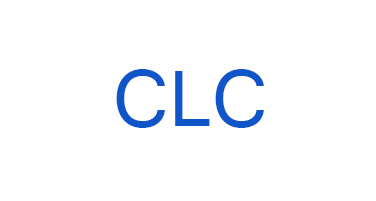
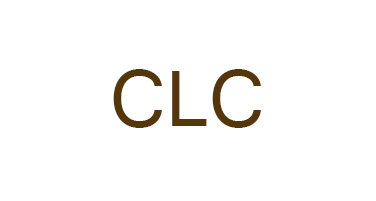
changed colors

Changed region(s): [[0.2926, 0.3284, 0.7021, 0.6567]]

diff --git a/public/css/main.css b/public/css/main.css
@@ -1,7 +1,7 @@
 .quick-access {
-  background: #79C1BA;
+  background: #54360A;
   /* Old browsers */
-  background-color: #79C1BA;
+  background-color: #54360A;
   width: 100%;
   padding: 3px;
   line-height: 28px;
@@ -21,7 +21,7 @@
     .quick-access p i:hover {
       background-color: white;
       border-color: white;
-      color: #79C1BA; }
+      color: #54360A; }
 
 .quick-access .icons {
   position: absolute;
@@ -36,7 +36,7 @@
 .navbar-default .navbar-nav > .active > a, .navbar-default .navbar-nav > .active > a:hover, .navbar-default .navbar-nav > .active > a:focus {
   color: white;
   background-color: #f0f0f0;
-  background-color: #79C1BA; }
+  background-color: #54360A; }
 
 .navbar {
   moz-box-shadow: 0px 1px 2px rgba(0, 0, 0, 0.15);
@@ -77,9 +77,9 @@ header.mainheader {
   padding: 20px 0px; }
 
 #copyright {
-  background: #79C1BA;
+  background: #54360A;
   /* Old browsers */
-  background-color: #79C1BA;
+  background-color: #54360A;
   padding: 10px 20px;
   color: white;
   margin-top: 20px; }
@@ -198,14 +198,14 @@ p.subdate {
   margin-bottom: 20px; }
 
 .chairman {
-  border-bottom: 1px solid #79C1BA; }
+  border-bottom: 1px solid #54360A; }
 
 body {
   background-color: #f1f4f9;
   font-family: Roboto, Helvetica, Arial, sans-serif; }
 
 .fa {
-  color: #79C1BA; }
+  color: #54360A; }
 
 .thumbnail {
   min-height: 400px;
@@ -223,14 +223,14 @@ body {
 
 .btnRed {
   border: none;
-  background-color: #79C1BA; }
+  background-color: #54360A; }
   .btnRed:hover {
-    background-color: #F95700; }
+    background-color: #54360A; }
 
 .underlined {
   margin-bottom: 40px;
   padding-bottom: 10px;
-  border-bottom: 1px solid #79C1BA; }
+  border-bottom: 1px solid #54360A; }
 
 aside article {
   background-color: #fff;
@@ -239,10 +239,10 @@ aside article {
 .glyphicon {
   font-size: 15px;
   margin-right: 5px;
-  color: #79C1BA; }
+  color: #54360A; }
 
 .badge {
-  background-color: #79C1BA; }
+  background-color: #54360A; }
 
 .placeholder100 {
   height: 100px; }
@@ -275,7 +275,7 @@ a {
   text-decoration: none; }
 
 .nav-tabs > li.active > a, .nav-tabs > li.active > a:hover, .nav-tabs > li.active > a:focus {
-  background-color: #79C1BA;
+  background-color: #54360A;
   color: #ffffff; }
 
 .policy {

diff --git a/resources/assets/sass/_header.scss b/resources/assets/sass/_header.scss
@@ -1,6 +1,6 @@
 .quick-access{
-  background: #79C1BA; /* Old browsers */
-  background-color: #79C1BA;
+  background: #54360A; /* Old browsers */
+  background-color: #54360A;
 
   width: 100%;
   padding: 3px;

diff --git a/resources/assets/sass/main.scss b/resources/assets/sass/main.scss
@@ -1,5 +1,5 @@
-$primaryColor: #79C1BA ;
-$gorange: #F95700;
+$primaryColor: #54360A ;
+$gorange: #54360A;
 @import "header.scss";
 @import "footer.scss";
 @import "forms.scss";

diff --git a/app/Http/routes.php b/app/Http/routes.php
@@ -20,7 +20,6 @@ Route::get('/phpinfo', function(){
     return phpinfo();
 });
 
-
 Route::get('portfolio', [
     'as'   => 'portfolio_path',
     'uses' => 'PagesController@portfolio'
@@ -35,6 +34,7 @@ Route::get('news/{id}', [
     'as'   => 'news_path',
     'uses' => 'PagesController@show_news_by_id'
 ]);
+
 Route::get('available', [
     'as'   => 'available_path',
     'uses' => 'PagesController@available'

diff --git a/resources/views/pages/contact_us.blade.php b/resources/views/pages/contact_us.blade.php
@@ -2,7 +2,7 @@
 @section('body')
 
     {!! $map['html'] !!}
-    <div><h1>we are here</h1></div>
+    
 @stop
 
 @section('script')
